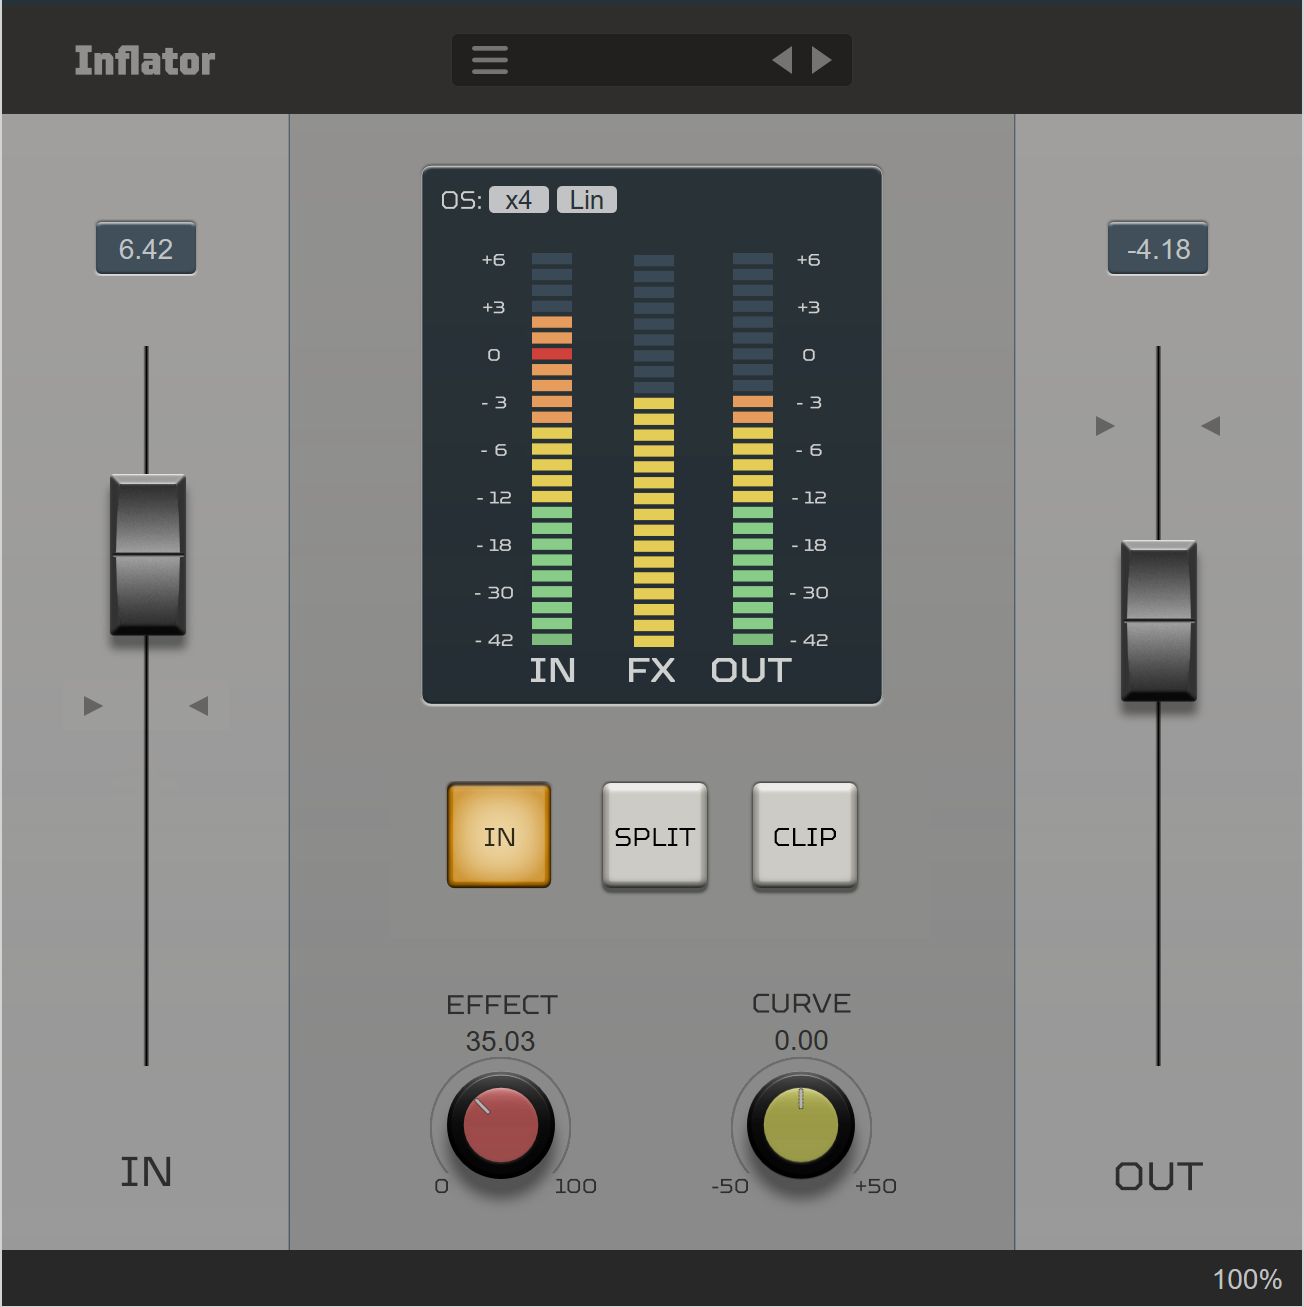
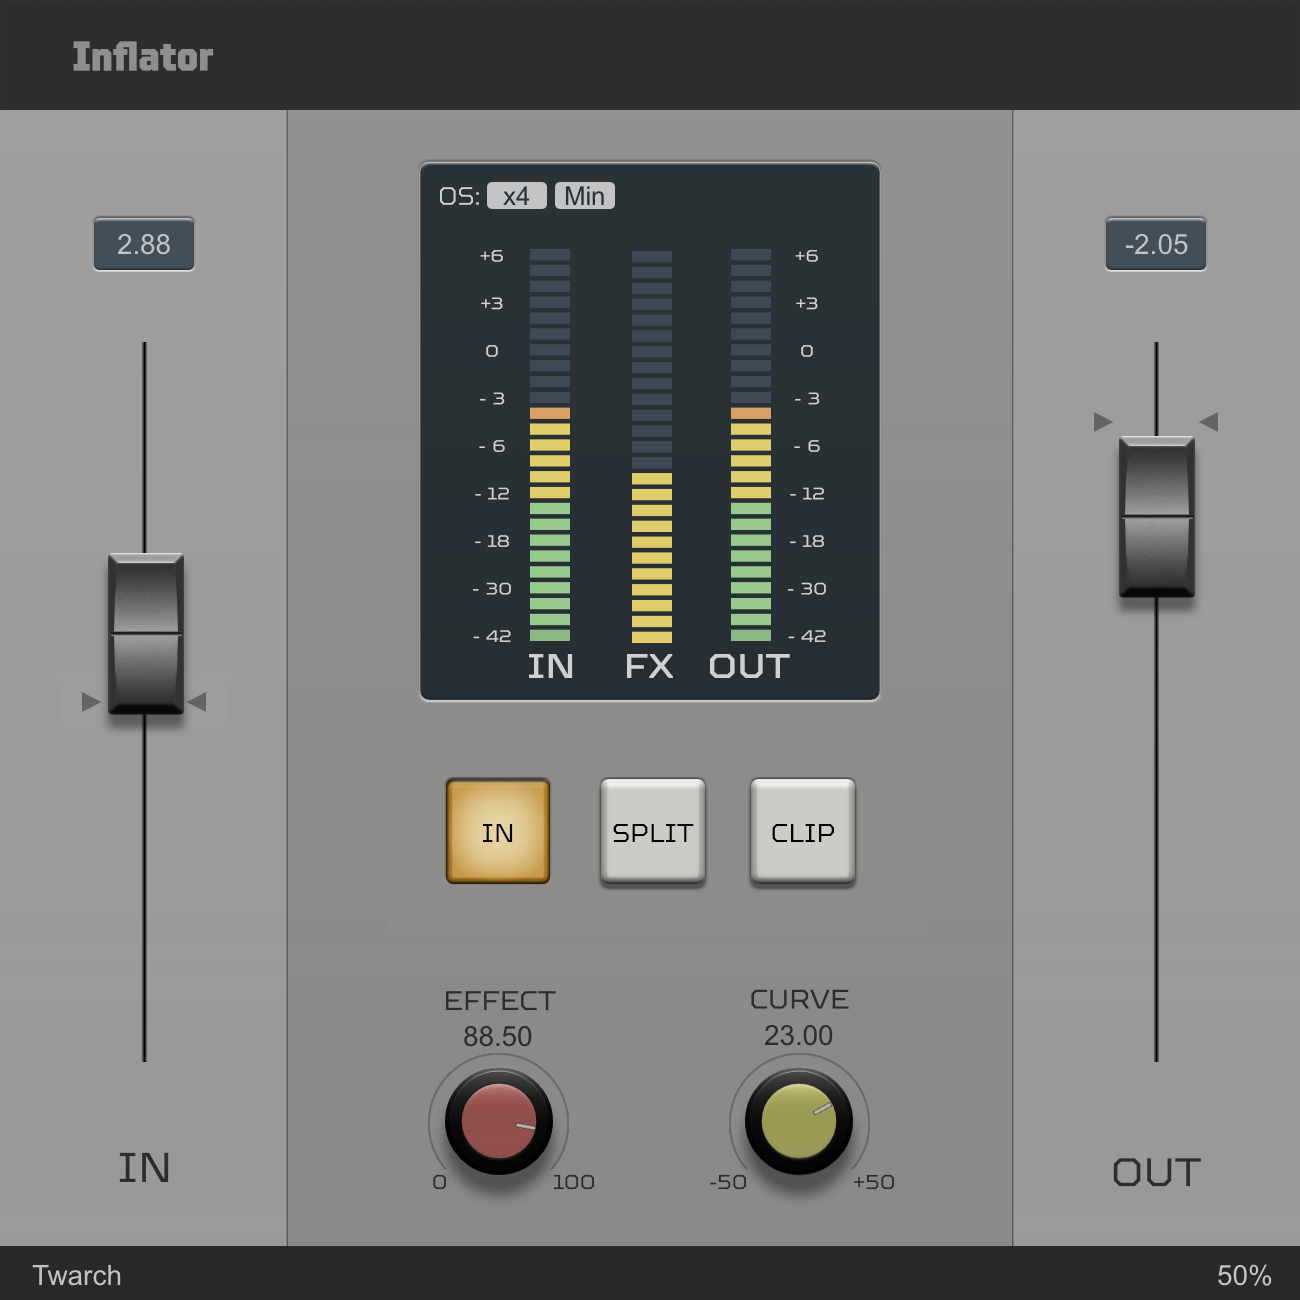
feat(v2.0.2): GUI now integrated

diff --git a/README.md b/README.md
@@ -8,12 +8,17 @@ Also double precision input / output if supported.
 <img src="https://github.com/Kiriki-liszt/JS_Inflator_to_VST2_VST3/raw/main/screenshots/screenshot_twarch.png"  width="400"/>
 
 Comes in two GUIs.
-The alternative GUI is made by Twarch.
+The alternative GUI is made by Twarch.  
+
+## Known Issues  
+
+In Apple macOS M-series native, oversampling over x4 are not working.  
+It works well in Rosetta.  
 
 ## Builds and Requirements  
 
-Windows - x64, SSE2  
-Mac - macos 10.13 ~ 14.5, SSE2 or NEON  
+Windows - x64  
+Mac - macos 10.13 ~ 14.5  
 
 ## Project Compability  
 
@@ -118,6 +123,7 @@ v2.0.0
 * Meters are now following envelope detector with time contants.  
 
 v2.0.1: Fix for Crash for Ableton, and fix for VU meter in Twarch GUI.  
+v2.0.2: Two GUIs are now integrated to one plugin.  
 
 ## What I've learned
 
@@ -163,7 +169,7 @@ Now it is free of Phase issuses.
 
 * Comparisons  
 1x  
-<img src="https://github.com/Kiriki-liszt/JS_Inflator_to_VST2_VST3/raw/main/screenshots/OS_1x.png"  width="400"/>  
+<img src="https://github.com/Kiriki-liszt/JS_Inflator_to_VST2_VST3/raw/main/screenshots/OS_1x_Min.png"  width="400"/>  
 
 2x Min-phase  
 <img src="https://github.com/Kiriki-liszt/JS_Inflator_to_VST2_VST3/raw/main/screenshots/OS_2x_Min.png"  width="400"/>  
